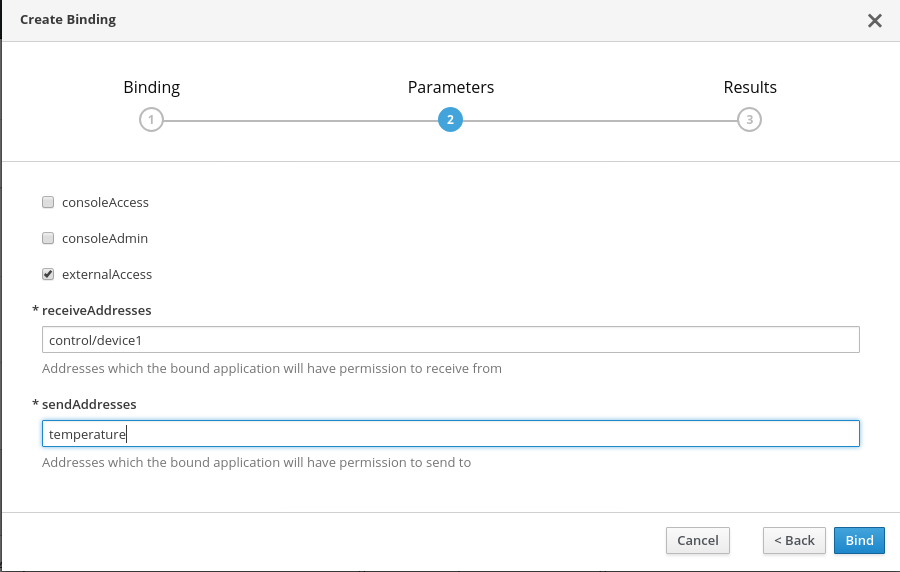
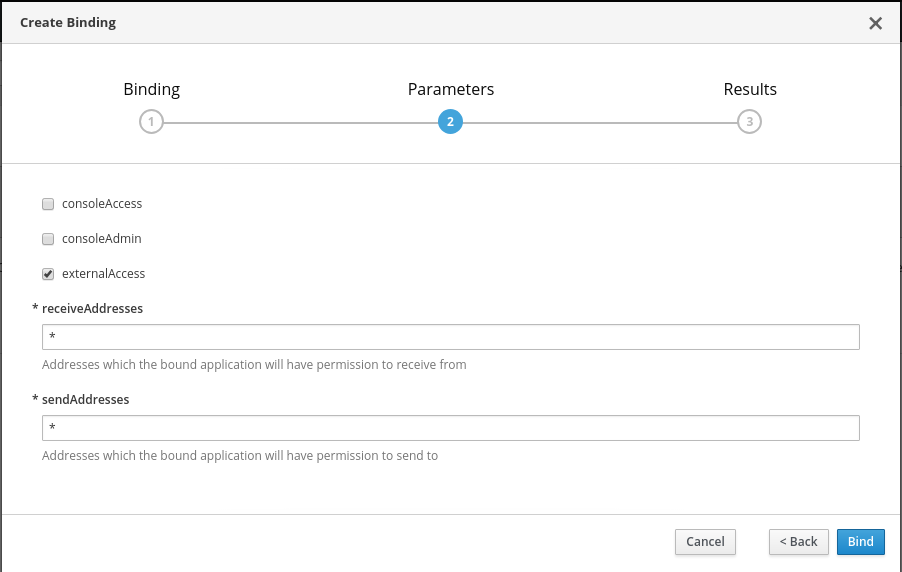
Add workaround for MQTT

diff --git a/README.md b/README.md
@@ -413,7 +413,11 @@ The console application can be configured using a `device.properties` file which
 
 1. This time, we want the device to read control messages for its address. We also want it to be able
 to send to the temperature address. Most importantly, we want to get hold of the external hostnames
-that the device can connect to, so make sure 'externalAccess' is set:
+that the device can connect to.
+
+    *NOTE* However, use '*' and '*' for both `sendAddresses` and `recvAddresses`, as there is a known limitation around authorization and MQTT in EnMasse.
+
+    Make sure 'externalAccess' is set:
 
     ![Device2](images/device2.png)
 
